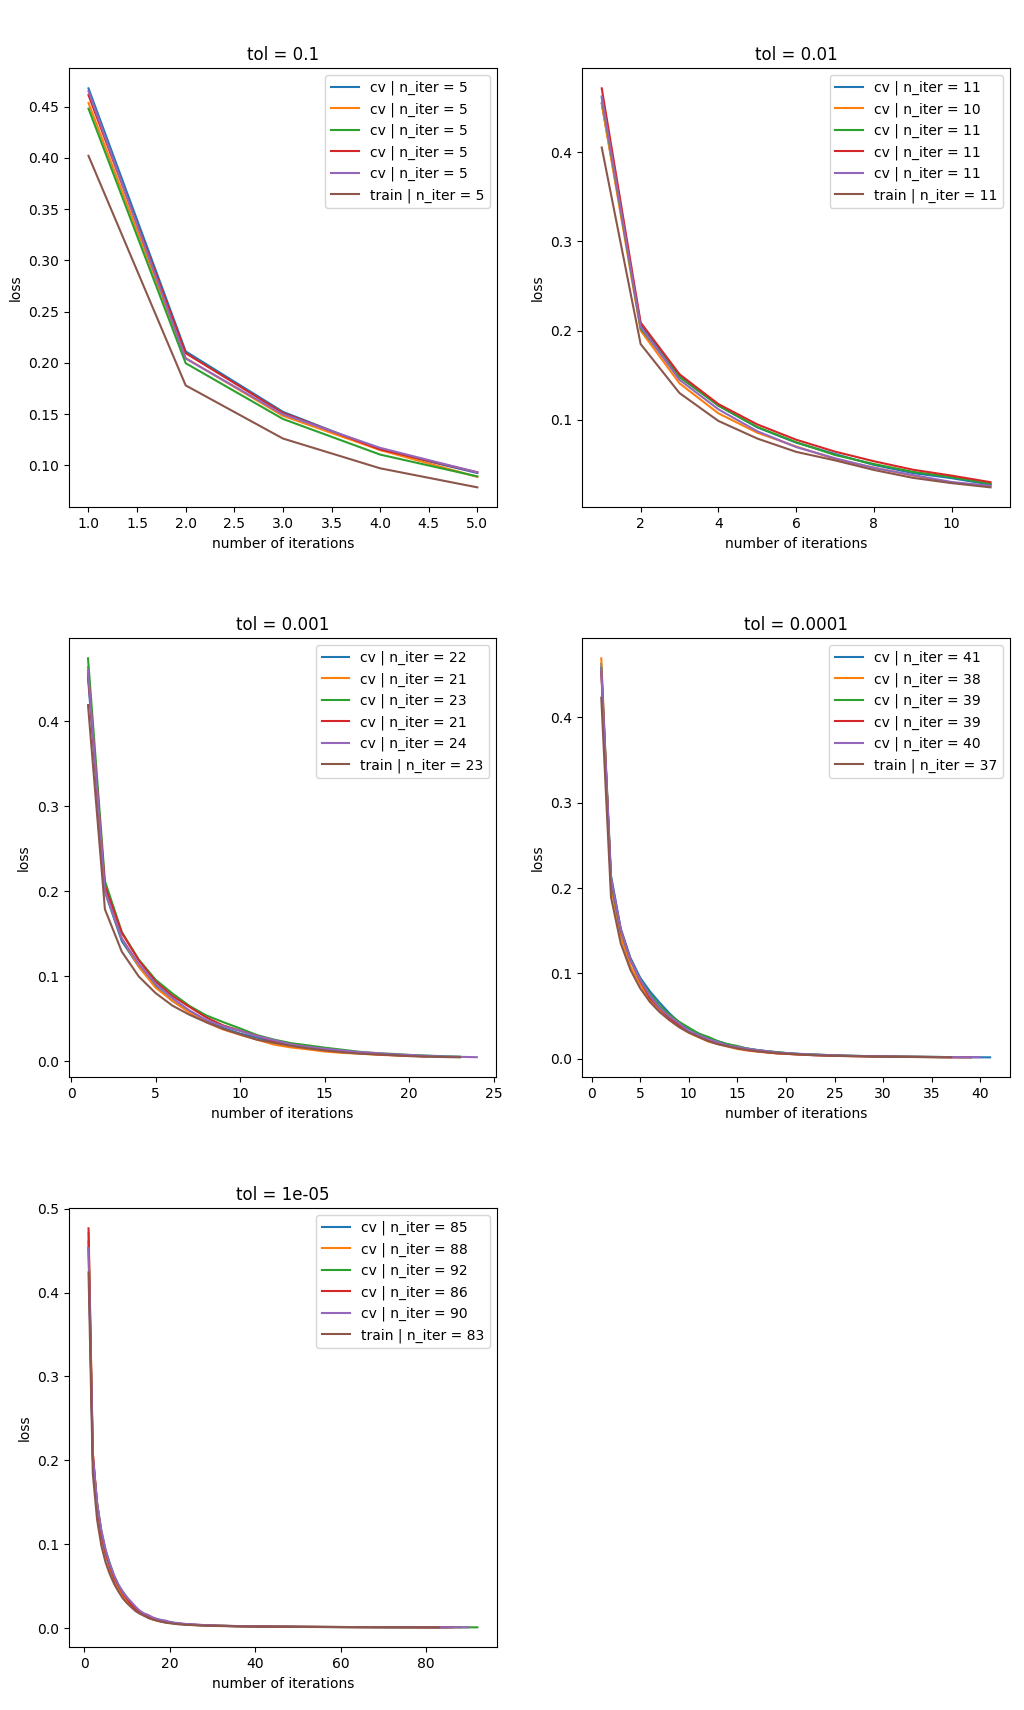
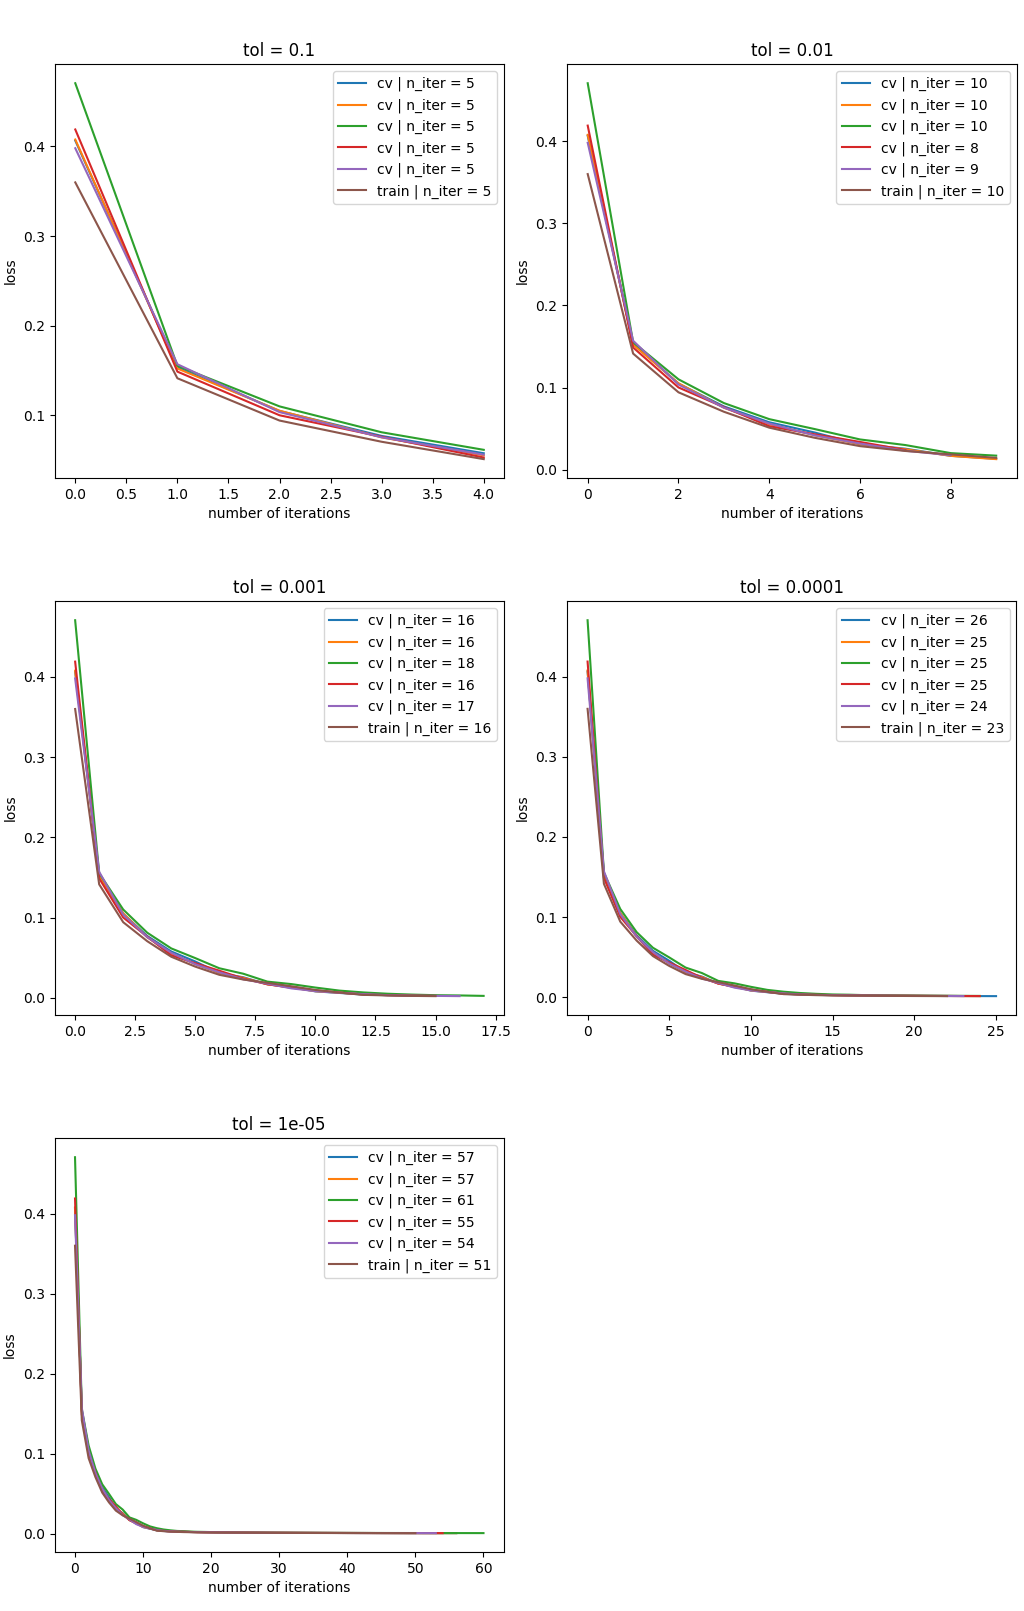
updated output

diff --git a/README.md b/README.md
@@ -158,18 +158,18 @@ The top ten parameter combinations regarding accuracy during the first cross-val
 
 number of neurons | learning rate | accuracy
 --- | --- | ---
-100 | 0.1 | 0.9691
- 90 | 0.1 | 0.9683
-100 | 0.3 | 0.9659
- 80 | 0.1 | 0.9651
- 60 | 0.1 | 0.9644
- 70 | 0.1 | 0.9644
- 50 | 0.2 | 0.9643
-100 | 0.2 | 0.9618
- 50 | 0.1 | 0.9584
- 70 | 0.2 | 0.9577
+100 | 0.2 | 0.9698
+ 90 | 0.2 | 0.9698
+100 | 0.1 | 0.9685
+ 90 | 0.1 | 0.9684
+ 90 | 0.3 | 0.9681
+ 80 | 0.1 | 0.9677
+ 80 | 0.2 | 0.9676
+ 90 | 0.4 | 0.9651
+100 | 0.3 | 0.9643
+100 | 0.4 | 0.9643
 
-So, the best choice is 100 neurons and a learning rate of 0.1.
+So, the best choice is 100 neurons and a learning rate of 0.2.
 
 #### Second cross-validation (for tolerance)
 Notes on how convergence in the `MLPClassifier` works:
@@ -192,10 +192,22 @@ So, the following plots show the loss function vs training epochs for the invest
 
 ![alt text](https://github.com/nela3003/PatternRecognition_TeamTasks/blob/master/Exercise_2b/plot_tolerance.png "Loss Function")
 
-From the plots, it can be observed that a tolerance of 0.0001 and 0.00001 doesn't help much in decreasing the loss, since already after 15
-iterations the gain of further training is negligible. A choice of 0.1 or 0.01 for the tolerance is maybe to optimistic, since there could still be some improvement done.
-So, a choice of 0.001 for the tolerance as convergence criteria makes sense. Since the computational time is not critical and the learning only improves,
-the script will choose the tolerance which performs best regarding mean accuracy (mean of accuracy from cross-validation and test set).
+From the plots, it can be observed, that a tolerance of 0.0001 and 0.00001 has already a very low loss after 15 to 20 iterations.
+A choice of 0.1 or 0.01 for the tolerance is maybe to optimistic, since there could still be some improvement done.
+So, if the tolerance would be set manually, a choice of 0.001 as convergence criteria seems reasonable.
+
+In the following table, the mean accuracy can be seen for each of the investigated tolerance values. The mean accuracy us computed by taking the mean from the five accuracy values from the cross validation and the accuracy from training on the entire training set and applying to the entire test set.
+
+tolerance | mean accuracy
+--- | ---
+0.1 | 0.9631
+0.01 | 0.9692
+0.001 | 0.9698
+0.0001 |0.9703
+0.00001 | 0.9706
+
+Since the computational time is not critical and the learning only improves (loss decreases, no overfitting),
+the script chooses the tolerance which performs best regarding mean accuracy to continue with.
 
 
 #### Third cross-validation (for neuron weights due to different random initialization)
@@ -204,27 +216,37 @@ Randomly initializing the weights several times yields to the following accuracy
 
 random state | accuracy
 ---- | ----
- 10 | 0.9577
- 74 | 0.9680
- 50 | 0.9638
- 31 | 0.9631
- 68 | 0.9625
- 90 | 0.9616
- 38 | 0.9660
- 30 | 0.9667
- 26 | 0.9682
- 92 | 0.9685
+ 32 | 0.9676
+ 26 | 0.9694
+ 98 | 0.9626
+ 37 | 0.9628
+ 42 | 0.9701
+  0 | 0.9716
+ 36 | 0.9700
+  3 | 0.9696
+ 31 | 0.9551
+ 18 | 0.9712
+ 17 | 0.9671
+ 49 | 0.9648
+  5 | 0.9633
+  8 | 0.9696
+ 72 | 0.9674
+  9 | 0.7175
+ 23 | 0.9650
+ 60 | 0.9681
+ 13 | 0.9658
+ 12 | 0.9712
 
-hence an improvement of about 1.1% can be observed.
+hence, if the worst case with 0.7175 is ignored, an improvement of about 1.6% can be observed.
 
 #### Predict labels for test set and compute accuracy
 Accuracy of MLP on the entire training set with
   - optimal number of neurons = 100
-  - optimal learning rate = 0.1
+  - optimal learning rate = 0.2
   - optimal tolerance = 0.00001
   - best performing randomly initialized weights
 
-is 0.9730.
+is **0.9737**.
 
 ### Conclusion
 MLPs are much faster than SVMs. Running the whole script can be done in about half an hour although many more MLPs are trained than in Exercise 2a. Regarding accuracy is MLP in the same range as SVM.
